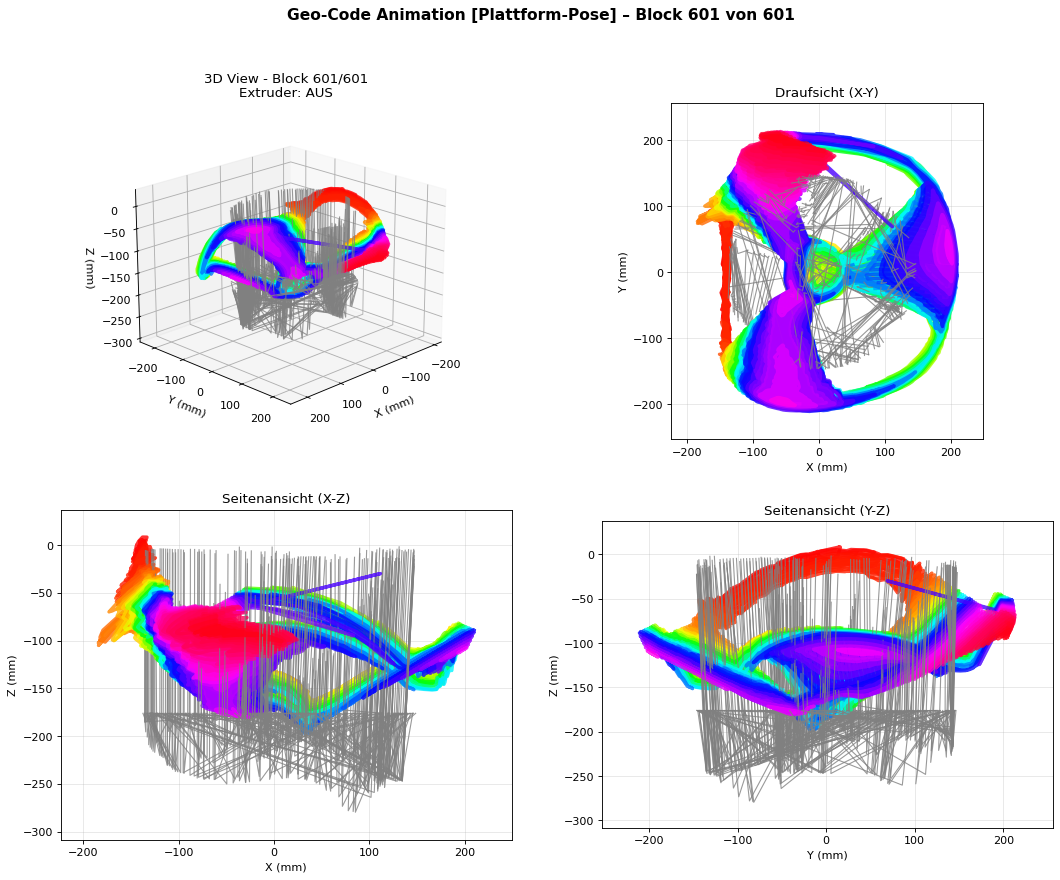
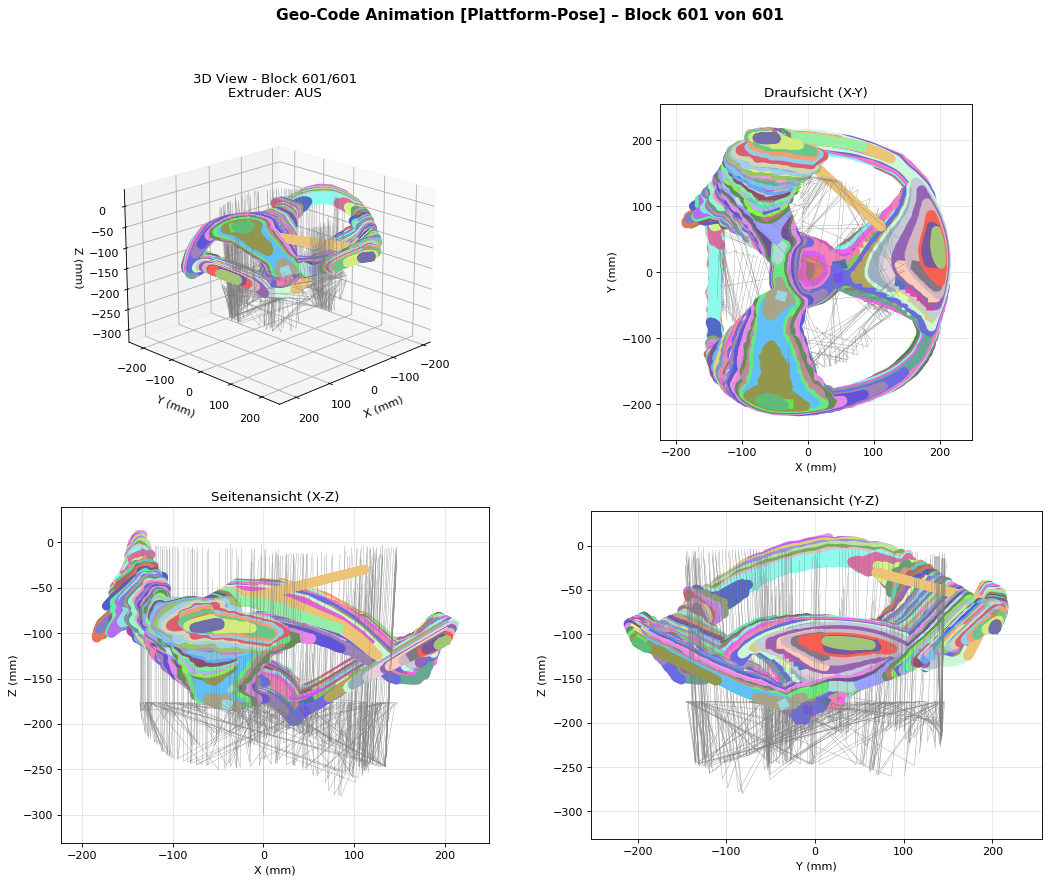
improved geo code visualisation

diff --git a/py_geo_code_visualisation.py b/py_geo_code_visualisation.py
@@ -10,9 +10,35 @@ warnings.filterwarnings('ignore')
 # Ein-/Ausgabe
 INPUT_GEO_FILE = "output_geo_code/Kegel_v3.geo"   # Pfad zur .geo Datei (relativ zum Skript)
 
+# Darstellungsmodus
+# 'platform'  → Plattform-Pose (Originalkoordinaten aus dem Geo-File)
+# 'toolpath'  → Werkzeugbahn / Düsenposition (Umkehrtransformation)
+# 'both'      → beide Modi nacheinander
+VISUALIZE_MODE = 'both'
+
 # Standard-Offsets aus py_geo_code_parser.py
 DEFAULT_BED_OFFSET  = (24.01192936, -23.95110169, 184.52700323)
 DEFAULT_TEST_OFFSET = (0.0, 0.0, 0.0)
+
+# Liniendicke (in mm)
+LINE_WIDTH_PRINT  = 3.0   # Liniendicke beim Drucken (Extruder AN), in mm
+LINE_WIDTH_TRAVEL = 0.1  # Liniendicke bei Leerfahrten (Extruder AUS), in mm
+
+# Zufallsfarben für Druckblöcke
+# Ganzzahl → reproduzierbare Farben; None → bei jedem Start neue Farben
+COLOR_RANDOM_SEED = 42
+
+
+def mm_to_pt(mm: float) -> float:
+    """Konvertiert Millimeter in Matplotlib-Linienpunkte (1 pt = 1/72 Zoll)."""
+    return mm * 72.0 / 25.4
+
+
+def generate_block_colors(num_print_blocks: int, seed=COLOR_RANDOM_SEED) -> list:
+    """Erzeugt eine reproduzierbare Liste zufälliger RGB-Farben für Druckblöcke."""
+    rng = np.random.default_rng(seed)
+    colors = rng.random((max(num_print_blocks, 1), 3)) * 0.7 + 0.3
+    return [tuple(c) for c in colors]
 
 
 class GeoCodeVisualizer:
@@ -36,7 +62,12 @@ class GeoCodeVisualizer:
         self.as_toolpath = as_toolpath
         self.bed_offset = np.array(bed_offset)
         self.test_offset = np.array(test_offset)
+        self._shared_colors: Optional[list] = None
         self.parse_file()
+
+    def set_shared_colors(self, colors: list):
+        """Setzt vorab berechnete Farben, die für beide Visualisierungen identisch sind."""
+        self._shared_colors = colors
     
     @staticmethod
     def compute_toolpath_pose(px: float, py: float, pz: float,
@@ -161,28 +192,33 @@ class GeoCodeVisualizer:
         
         return blocks
     
-    def get_block_color(self, blocks: List[Dict], block_idx: int) -> str:
-        """Generiert eine Farbe für einen Block basierend auf Extruder-Status"""
+    def get_block_color(self, blocks: List[Dict], block_idx: int):
+        """Gibt eine Farbe für einen Block zurück – zufällig für Druckblöcke, grau für Leerfahrten."""
         block = blocks[block_idx]
-        
+
         if not block['extruder_on']:
             return 'gray'
-        
-        # Zähle nur die Druck-Blöcke bis zu diesem Index
-        print_blocks_so_far = sum(1 for b in blocks[:block_idx + 1] if b['extruder_on'])
-        total_print_blocks = sum(1 for b in blocks if b['extruder_on'])
-        
-        # Verwende HSV-Farbmodell für kontinuierliche Farbverteilung
-        hue = (print_blocks_so_far - 1) / max(1, total_print_blocks - 1)
-        
-        # Konvertiere HSV zu RGB
-        color = cm.hsv(hue)
-        return color
+
+        print_block_idx = sum(1 for b in blocks[:block_idx + 1] if b['extruder_on']) - 1
+
+        # Geteilte Farben verwenden (falls vorab gesetzt), sonst frisch generieren
+        if self._shared_colors is not None:
+            colors = self._shared_colors
+        else:
+            total_print_blocks = sum(1 for b in blocks if b['extruder_on'])
+            colors = generate_block_colors(total_print_blocks)
+
+        return colors[print_block_idx]
     
-    def create_gif_animation(self, output_file: str, fps: int = 5, dpi: int = 80):
+    def create_gif_animation(self, output_file: str, fps: int = 5, dpi: int = 80,
+                               line_width_print: float = LINE_WIDTH_PRINT,
+                               line_width_travel: float = LINE_WIDTH_TRAVEL):
         """Erstellt eine GIF-Animation mit jedem Block als Frame.
         
         Koordinatenraum hängt vom im Konstruktor gesetzten 'as_toolpath' Flag ab.
+
+        :param line_width_print:  Liniendicke beim Drucken (Extruder AN), in mm
+        :param line_width_travel: Liniendicke bei Leerfahrten (Extruder AUS), in mm
         """
         coord_label = 'Werkzeugbahn (Düsenposition)' if self.as_toolpath else 'Plattform-Pose'
         
@@ -255,11 +291,11 @@ class GeoCodeVisualizer:
                     if prev_block['extruder_on']:
                         color_3d = color
                         color_2d = color
-                        linewidth = 3
+                        linewidth = mm_to_pt(line_width_print)
                     else:
                         color_3d = 'gray'
                         color_2d = 'gray'
-                        linewidth = 1
+                        linewidth = mm_to_pt(line_width_travel)
                     
                     # Extrahiere Koordinaten
                     moves = prev_block['moves']
@@ -268,16 +304,16 @@ class GeoCodeVisualizer:
                     zs = [m['z'] for m in moves]
                     
                     # 3D Plot
-                    ax3d.plot(xs, ys, zs, color=color_3d, linewidth=linewidth, alpha=0.8)
+                    ax3d.plot(xs, ys, zs, color=color_3d, linewidth=linewidth, alpha=1.0)
                     
                     # 2D XY
-                    ax_xy.plot(xs, ys, color=color_2d, linewidth=linewidth, alpha=0.8)
+                    ax_xy.plot(xs, ys, color=color_2d, linewidth=linewidth, alpha=1.0)
                     
                     # 2D XZ
-                    ax_xz.plot(xs, zs, color=color_2d, linewidth=linewidth, alpha=0.8)
+                    ax_xz.plot(xs, zs, color=color_2d, linewidth=linewidth, alpha=1.0)
                     
                     # 2D YZ
-                    ax_yz.plot(ys, zs, color=color_2d, linewidth=linewidth, alpha=0.8)
+                    ax_yz.plot(ys, zs, color=color_2d, linewidth=linewidth, alpha=1.0)
                     
 
                 
@@ -402,7 +438,10 @@ class GeoCodeVisualizer:
 def run_visualization(geo_file: Path, as_toolpath: bool,
                       bed_offset: Tuple = DEFAULT_BED_OFFSET,
                       test_offset: Tuple = DEFAULT_TEST_OFFSET,
-                      fps: int = 5, dpi: int = 80):
+                      fps: int = 5, dpi: int = 80,
+                      line_width_print: float = LINE_WIDTH_PRINT,
+                      line_width_travel: float = LINE_WIDTH_TRAVEL,
+                      shared_colors: Optional[list] = None):
     """Erstellt GIF + finales PNG für einen Koordinatenraum."""
 
     mode_label   = 'Toolpath'   if as_toolpath else 'Platform'
@@ -419,20 +458,24 @@ def run_visualization(geo_file: Path, as_toolpath: bool,
         bed_offset=bed_offset,
         test_offset=test_offset,
     )
+    if shared_colors is not None:
+        visualizer.set_shared_colors(shared_colors)
 
     stats = visualizer.create_statistics()
     for key, value in stats.items():
         print(f"  {key}: {value}")
 
     print(f"\nErstelle GIF-Animation ({mode_label})...\n")
-    visualizer.create_gif_animation(str(output_gif), fps=fps, dpi=dpi)
+    visualizer.create_gif_animation(str(output_gif), fps=fps, dpi=dpi,
+                                    line_width_print=line_width_print,
+                                    line_width_travel=line_width_travel)
 
     print(f"  → GIF:   {output_gif.name}")
     print(f"  → PNG:   {output_gif.stem}_final.png")
 
 
 def main():
-    """Hauptfunktion – erstellt Visualisierungen in beiden Koordinatenräumen."""
+    """Hauptfunktion – erstellt Visualisierungen gemäß VISUALIZE_MODE."""
 
     geo_file = Path(__file__).parent / INPUT_GEO_FILE
 
@@ -442,17 +485,37 @@ def main():
 
     print(f"Lade Datei: {geo_file}")
 
-    # 1) Plattform-Pose (Originaldarstellung)
-    run_visualization(geo_file, as_toolpath=False)
+    mode = VISUALIZE_MODE.strip().lower()
+    if mode not in ('platform', 'toolpath', 'both'):
+        print(f"Unbekannter VISUALIZE_MODE: '{VISUALIZE_MODE}' – bitte 'platform', 'toolpath' oder 'both' verwenden.")
+        return
 
-    # 2) Werkzeugbahn (Umkehrtransformation)
-    run_visualization(geo_file, as_toolpath=True)
+    # Farben einmal vorab berechnen, damit beide Modi identische Farben verwenden
+    _tmp = GeoCodeVisualizer(str(geo_file), as_toolpath=False)
+    _blocks = _tmp.get_blocks()
+    num_print_blocks = sum(1 for b in _blocks if b['extruder_on'])
+    shared_colors = generate_block_colors(num_print_blocks)
+
+    if mode in ('platform', 'both'):
+        run_visualization(geo_file, as_toolpath=False, shared_colors=shared_colors)
+
+    if mode in ('toolpath', 'both'):
+        run_visualization(geo_file, as_toolpath=True, shared_colors=shared_colors)
 
     print("\n" + "="*55)
-    print("  ✅ BEIDE VISUALISIERUNGEN ERFOLGREICH ERSTELLT!")
-    print("="*55)
-    print("  Kegel_v3_BlockAnimation_Platform.gif  – Plattform-Pose")
-    print("  Kegel_v3_BlockAnimation_Toolpath.gif  – Werkzeugbahn")
+    if mode == 'platform':
+        print(" Plattform-Pose erfolgreich erstellt!")
+        print("="*55)
+        print("  Kegel_v3_BlockAnimation_Platform.gif  – Plattform-Pose")
+    elif mode == 'toolpath':
+        print(" Werkzeugbahn erfolgreich erstellt!")
+        print("="*55)
+        print("  Kegel_v3_BlockAnimation_Toolpath.gif  – Werkzeugbahn")
+    else:
+        print(" BEIDE VISUALISIERUNGEN ERFOLGREICH ERSTELLT!")
+        print("="*55)
+        print("  Kegel_v3_BlockAnimation_Platform.gif  – Plattform-Pose")
+        print("  Kegel_v3_BlockAnimation_Toolpath.gif  – Werkzeugbahn")
     print()
 
 

diff --git a/py_geo_code_parser.py b/py_geo_code_parser.py
@@ -96,7 +96,7 @@ def convert_to_custom_code(gcode_lines, max_rot_x, max_rot_y, max_rot_z, bed_off
     Wandelt Eingabe-Zeilen in Bewegungsbefehle um.
     Berechnet Plattformpositionen und begrenzt Rotationen.
     """
-    custom_code = ['EXTRUDER_OFF','LA 0.0 0.0 -100.0 0.0 0.0 0.0']  # Startpose
+    custom_code = ['EXTRUDER_OFF','LA 0.0 0.0 -300.0 0.0 0.0 0.0']  # Startpose
     custom_ende_code = ''
     last_speed = None
     speed_mode_set = False